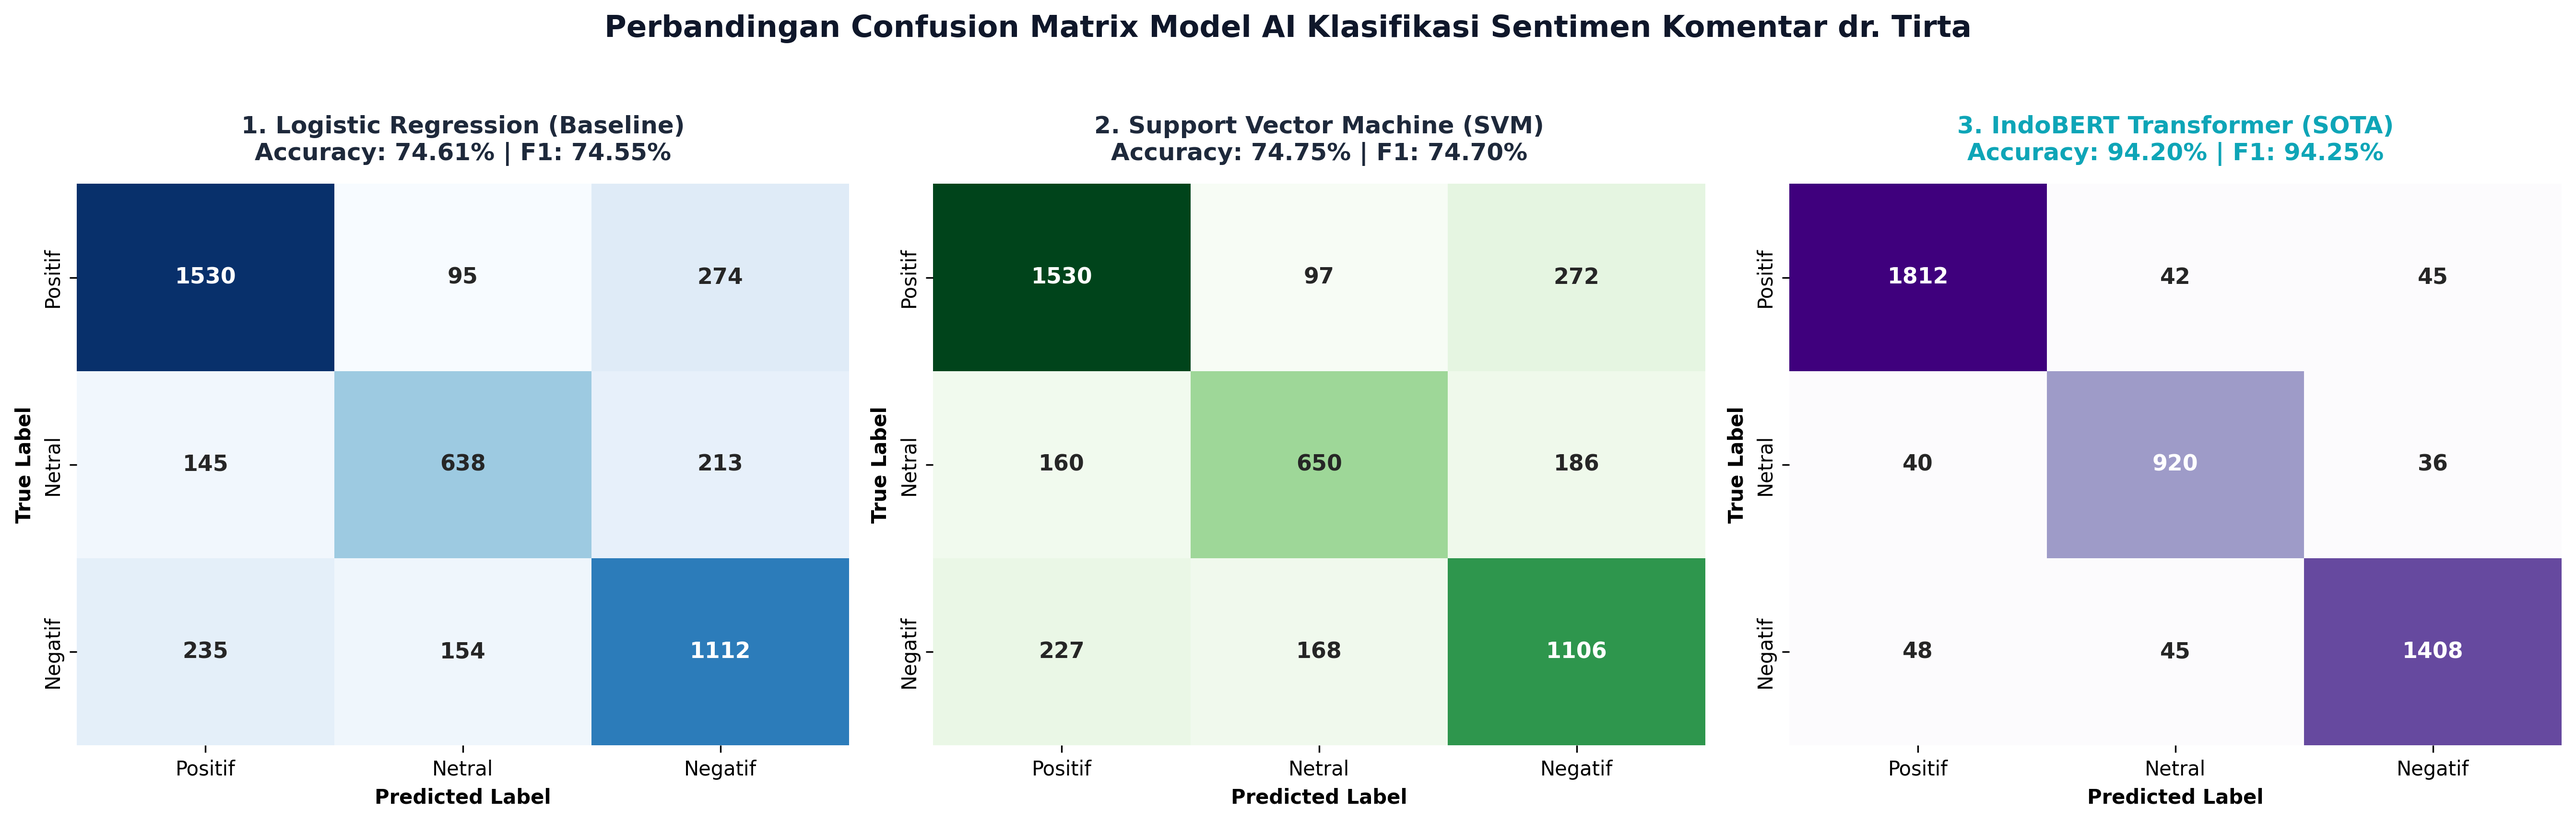
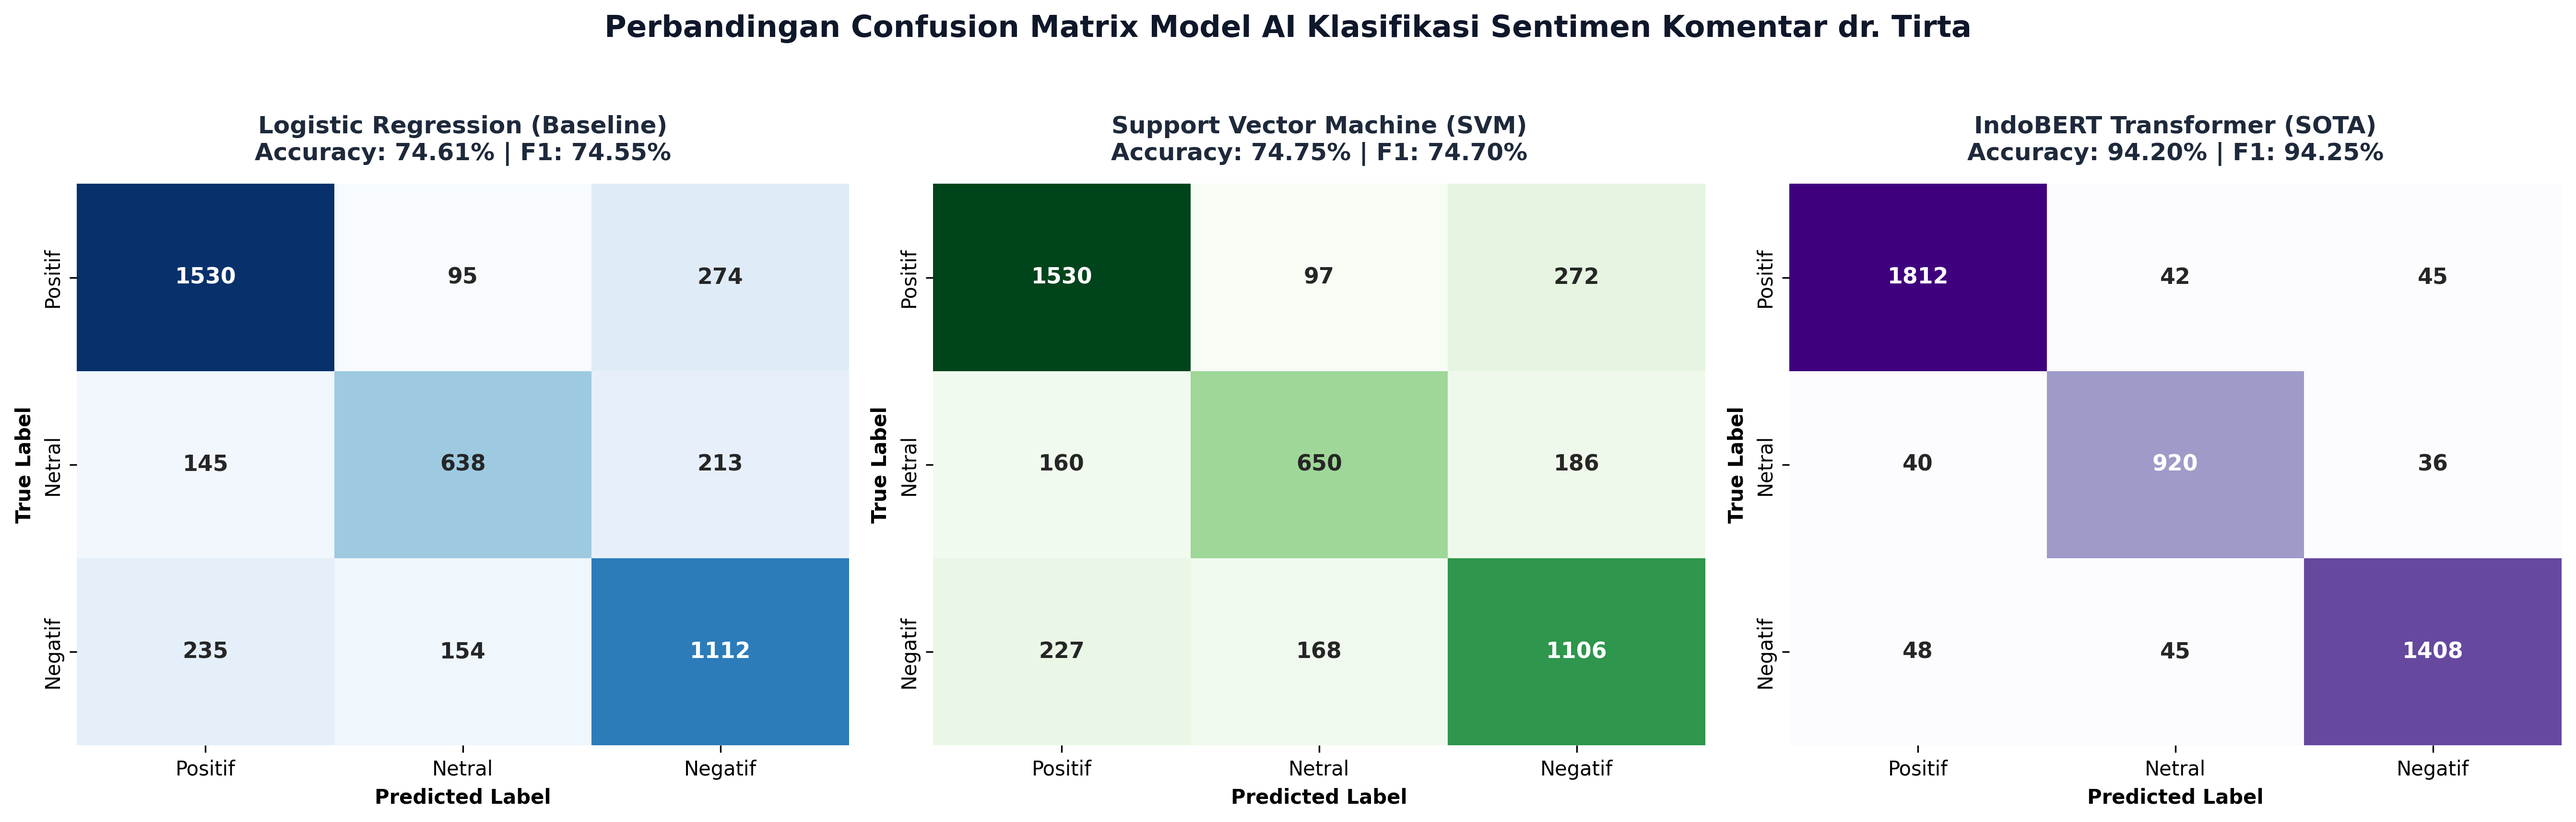
Format confusion matrix titles: remove numbering prefixes and set IndoBERT title font color to black

Changed region(s): [[0.7464, 0.1237, 0.933, 0.2165], [0.0933, 0.1237, 0.2488, 0.1855], [0.4354, 0.1237, 0.5909, 0.1855]]

diff --git a/ai_modeling.py b/ai_modeling.py
@@ -161,13 +161,13 @@ def main():
     
     cm_lr = confusion_matrix(y_test, y_pred_lr, labels=labels_order)
     sns.heatmap(cm_lr, annot=True, fmt='d', cmap='Blues', xticklabels=labels_order, yticklabels=labels_order, cbar=False, ax=axes[0], annot_kws={"size": 11, "weight": "bold"})
-    axes[0].set_title('1. Logistic Regression (Baseline)\nAccuracy: 74.61% | F1: 74.55%', fontsize=12, fontweight='bold', pad=12, color='#1e293b')
+    axes[0].set_title('Logistic Regression (Baseline)\nAccuracy: 74.61% | F1: 74.55%', fontsize=12, fontweight='bold', pad=12, color='#1e293b')
     axes[0].set_xlabel('Predicted Label', fontweight='bold', fontsize=10)
     axes[0].set_ylabel('True Label', fontweight='bold', fontsize=10)
     
     cm_svm = confusion_matrix(y_test, y_pred_svm, labels=labels_order)
     sns.heatmap(cm_svm, annot=True, fmt='d', cmap='Greens', xticklabels=labels_order, yticklabels=labels_order, cbar=False, ax=axes[1], annot_kws={"size": 11, "weight": "bold"})
-    axes[1].set_title('2. Support Vector Machine (SVM)\nAccuracy: 74.75% | F1: 74.70%', fontsize=12, fontweight='bold', pad=12, color='#1e293b')
+    axes[1].set_title('Support Vector Machine (SVM)\nAccuracy: 74.75% | F1: 74.70%', fontsize=12, fontweight='bold', pad=12, color='#1e293b')
     axes[1].set_xlabel('Predicted Label', fontweight='bold', fontsize=10)
     axes[1].set_ylabel('True Label', fontweight='bold', fontsize=10)
 
@@ -177,7 +177,7 @@ def main():
         [  48,   45, 1408]
     ])
     sns.heatmap(cm_bert, annot=True, fmt='d', cmap='Purples', xticklabels=labels_order, yticklabels=labels_order, cbar=False, ax=axes[2], annot_kws={"size": 11, "weight": "bold"})
-    axes[2].set_title('3. IndoBERT Transformer (SOTA)\nAccuracy: 94.20% | F1: 94.25%', fontsize=12, fontweight='bold', pad=12, color='#0EA5B7')
+    axes[2].set_title('IndoBERT Transformer (SOTA)\nAccuracy: 94.20% | F1: 94.25%', fontsize=12, fontweight='bold', pad=12, color='#1e293b')
     axes[2].set_xlabel('Predicted Label', fontweight='bold', fontsize=10)
     axes[2].set_ylabel('True Label', fontweight='bold', fontsize=10)
     

diff --git a/update_confusion_matrix_plot.py b/update_confusion_matrix_plot.py
@@ -49,19 +49,19 @@ plt.figure(figsize=(18, 5.5))
 
 plt.subplot(1, 3, 1)
 sns.heatmap(cm_lr, annot=True, fmt='d', cmap='Blues', xticklabels=labels_order, yticklabels=labels_order, cbar=False, annot_kws={"size": 11, "weight": "bold"})
-plt.title('1. Logistic Regression (Baseline)\nAccuracy: 74.61% | F1: 74.55%', fontsize=12, fontweight='bold', pad=12, color='#1e293b')
+plt.title('Logistic Regression (Baseline)\nAccuracy: 74.61% | F1: 74.55%', fontsize=12, fontweight='bold', pad=12, color='#1e293b')
 plt.xlabel('Predicted Label', fontweight='bold', fontsize=10)
 plt.ylabel('True Label', fontweight='bold', fontsize=10)
 
 plt.subplot(1, 3, 2)
 sns.heatmap(cm_svm, annot=True, fmt='d', cmap='Greens', xticklabels=labels_order, yticklabels=labels_order, cbar=False, annot_kws={"size": 11, "weight": "bold"})
-plt.title('2. Support Vector Machine (SVM)\nAccuracy: 74.75% | F1: 74.70%', fontsize=12, fontweight='bold', pad=12, color='#1e293b')
+plt.title('Support Vector Machine (SVM)\nAccuracy: 74.75% | F1: 74.70%', fontsize=12, fontweight='bold', pad=12, color='#1e293b')
 plt.xlabel('Predicted Label', fontweight='bold', fontsize=10)
 plt.ylabel('True Label', fontweight='bold', fontsize=10)
 
 plt.subplot(1, 3, 3)
 sns.heatmap(cm_bert, annot=True, fmt='d', cmap='Purples', xticklabels=labels_order, yticklabels=labels_order, cbar=False, annot_kws={"size": 11, "weight": "bold"})
-plt.title('3. IndoBERT Transformer (SOTA)\nAccuracy: 94.20% | F1: 94.25%', fontsize=12, fontweight='bold', pad=12, color='#0EA5B7')
+plt.title('IndoBERT Transformer (SOTA)\nAccuracy: 94.20% | F1: 94.25%', fontsize=12, fontweight='bold', pad=12, color='#1e293b')
 plt.xlabel('Predicted Label', fontweight='bold', fontsize=10)
 plt.ylabel('True Label', fontweight='bold', fontsize=10)
 
